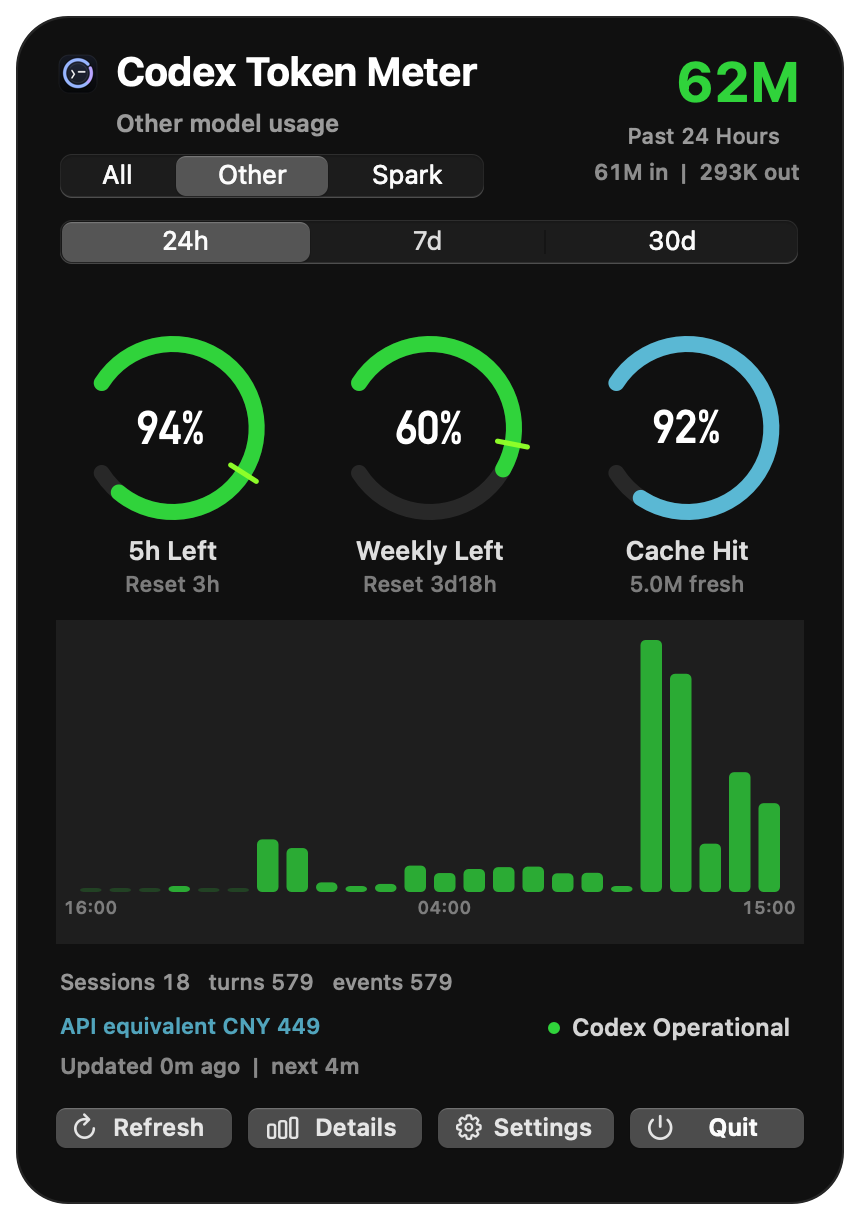
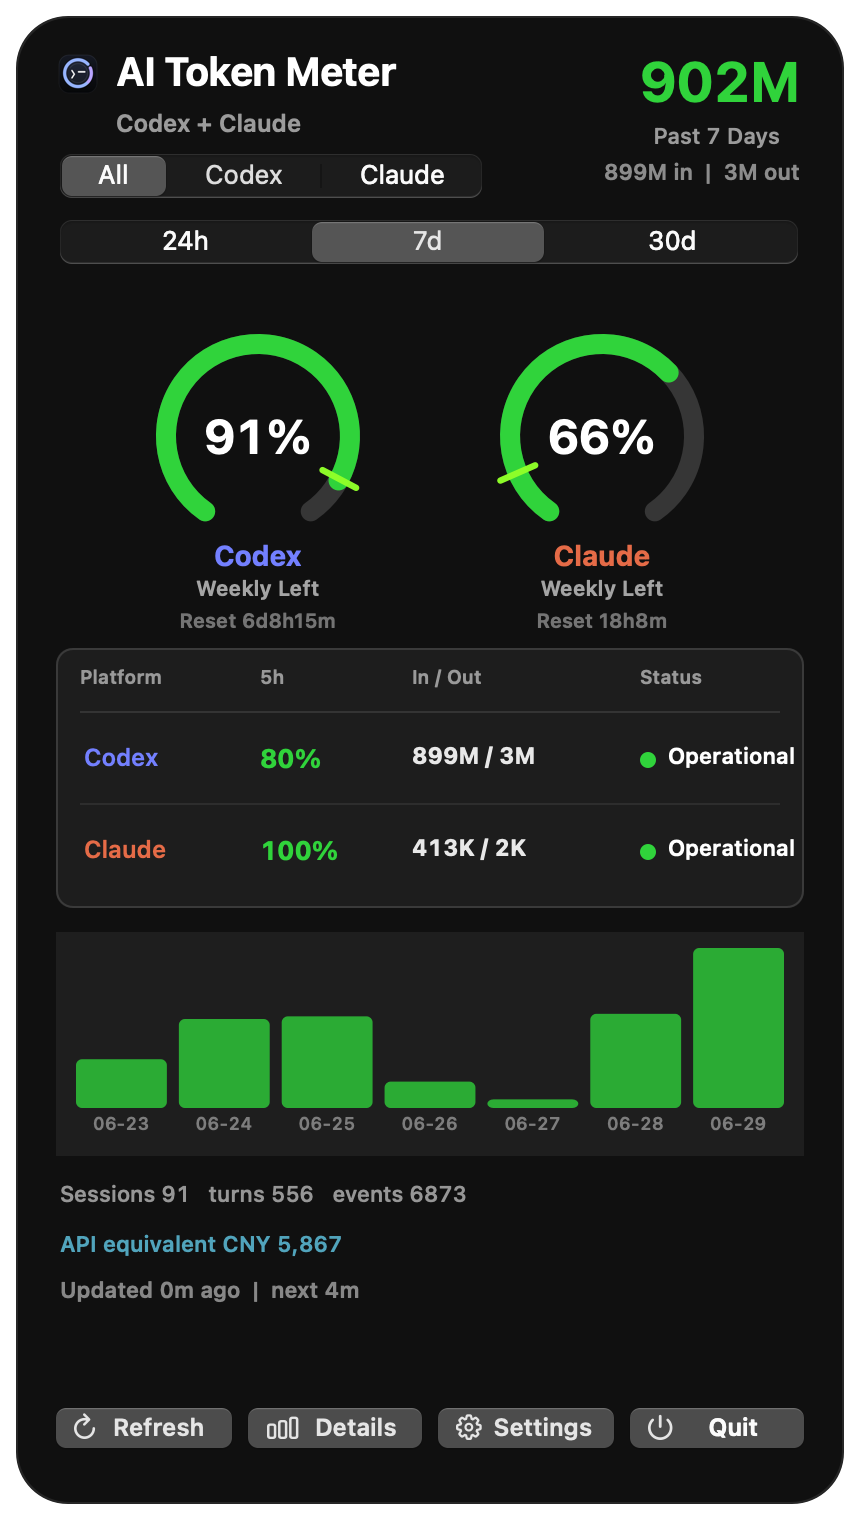
Refresh README screenshots for AI Token Meter

diff --git a/README.en.md b/README.en.md
@@ -21,37 +21,37 @@ When available, it also reads live quota data from the local Codex runtime, incl
 ### Menu Bar Dashboard
 
 <p align="center">
-  <img src="docs/images/en-menu-popover-current.png" alt="AI Token Meter menu bar dashboard" width="520">
+  <img src="docs/images/en-menu-popover-current.png" alt="AI Token Meter menu bar dashboard" width="420">
 </p>
 
 ### Repository Insights
 
 <p align="center">
-  <img src="docs/images/en-details-insights.png" alt="AI Token Meter repository insights page" width="1400">
+  <img src="docs/images/en-details-insights.png" alt="AI Token Meter repository insights page" width="760">
 </p>
 
 ### Details Overview
 
 <p align="center">
-  <img src="docs/images/en-details-overview.png" alt="AI Token Meter details overview" width="1400">
+  <img src="docs/images/en-details-overview.png" alt="AI Token Meter details overview" width="760">
 </p>
 
 ### Activity Calendar
 
 <p align="center">
-  <img src="docs/images/en-details-calendar.png" alt="AI Token Meter activity calendar page" width="1400">
+  <img src="docs/images/en-details-calendar.png" alt="AI Token Meter activity calendar page" width="760">
 </p>
 
 ### Cost And Budget Tracking
 
 <p align="center">
-  <img src="docs/images/en-details-costs.png" alt="AI Token Meter cost and budget page" width="1400">
+  <img src="docs/images/en-details-costs.png" alt="AI Token Meter cost and budget page" width="760">
 </p>
 
 ### Diagnostics
 
 <p align="center">
-  <img src="docs/images/en-details-diagnostics.png" alt="AI Token Meter diagnostics page" width="1400">
+  <img src="docs/images/en-details-diagnostics.png" alt="AI Token Meter diagnostics page" width="760">
 </p>
 
 <details>
@@ -60,37 +60,37 @@ When available, it also reads live quota data from the local Codex runtime, incl
 ### 状态栏面板
 
 <p align="center">
-  <img src="docs/images/zh-menu-popover-current.png" alt="AI Token Meter Chinese menu bar dashboard" width="520">
+  <img src="docs/images/zh-menu-popover-current.png" alt="AI Token Meter Chinese menu bar dashboard" width="420">
 </p>
 
 ### 仓库洞察
 
 <p align="center">
-  <img src="docs/images/zh-details-insights.png" alt="AI Token Meter Chinese repository insights page" width="1400">
+  <img src="docs/images/zh-details-insights.png" alt="AI Token Meter Chinese repository insights page" width="760">
 </p>
 
 ### 详情概览
 
 <p align="center">
-  <img src="docs/images/zh-details-overview.png" alt="AI Token Meter Chinese details overview" width="1400">
+  <img src="docs/images/zh-details-overview.png" alt="AI Token Meter Chinese details overview" width="760">
 </p>
 
 ### 活动日历
 
 <p align="center">
-  <img src="docs/images/zh-details-calendar.png" alt="AI Token Meter Chinese activity calendar page" width="1400">
+  <img src="docs/images/zh-details-calendar.png" alt="AI Token Meter Chinese activity calendar page" width="760">
 </p>
 
 ### 金额与预算
 
 <p align="center">
-  <img src="docs/images/zh-details-costs.png" alt="AI Token Meter Chinese cost and budget page" width="1400">
+  <img src="docs/images/zh-details-costs.png" alt="AI Token Meter Chinese cost and budget page" width="760">
 </p>
 
 ### 诊断
 
 <p align="center">
-  <img src="docs/images/zh-details-diagnostics.png" alt="AI Token Meter Chinese diagnostics page" width="1400">
+  <img src="docs/images/zh-details-diagnostics.png" alt="AI Token Meter Chinese diagnostics page" width="760">
 </p>
 
 </details>
@@ -100,12 +100,14 @@ When available, it also reads live quota data from the local Codex runtime, incl
 - Menu bar status item showing remaining quota, weekly quota, daily tokens, or weekly tokens.
 - Compact popover with `24h / 7d / 30d` windows.
 - `All / Codex / Claude` source switching, plus model-limit and non-model-limit views inside Codex usage.
+- The `All` dashboard shows Codex / Claude weekly quota rings, 5-hour pressure, input/output, status links, and time-window usage bars.
 - The Claude view can use Claude Code statusline `rate_limits` for official 5-hour and 7-day usage percentages; without that hook it still shows local-log usage.
 - Live 5-hour and weekly quota pacing, with either ring or bullet-style display.
 - Cache hit-rate ring.
 - Compact Codex service-status chip sourced from `status.openai.com`, with a settings toggle to show or hide it.
 - Token breakdown for input, output, cached input, fresh input, and total tokens.
 - Details window with overview, insights, calendar, cost, model, settings, diagnostics, and about pages.
+- The menu dashboard and details window cache aggregate snapshots, showing the last complete result first and refreshing in the background.
 - Insights page that groups local Codex and Claude Code conversations by repository or folder, highlights long-running threads, context-compaction pressure, active worktrees, and split-thread recommendations.
 - 365-day activity calendar with daily detail cards.
 - Model-level aggregation for long-term usage analysis.

diff --git a/README.md b/README.md
@@ -21,37 +21,37 @@ $CODEX_HOME/archived_sessions/rollout-*.jsonl
 ### 状态栏面板
 
 <p align="center">
-  <img src="docs/images/zh-menu-popover-current.png" alt="AI Token Meter 中文状态栏面板" width="520">
+  <img src="docs/images/zh-menu-popover-current.png" alt="AI Token Meter 中文状态栏面板" width="420">
 </p>
 
 ### 仓库洞察
 
 <p align="center">
-  <img src="docs/images/zh-details-insights.png" alt="AI Token Meter 中文仓库洞察页面" width="1400">
+  <img src="docs/images/zh-details-insights.png" alt="AI Token Meter 中文仓库洞察页面" width="760">
 </p>
 
 ### 详情概览
 
 <p align="center">
-  <img src="docs/images/zh-details-overview.png" alt="AI Token Meter 中文详情概览" width="1400">
+  <img src="docs/images/zh-details-overview.png" alt="AI Token Meter 中文详情概览" width="760">
 </p>
 
 ### 活动日历
 
 <p align="center">
-  <img src="docs/images/zh-details-calendar.png" alt="AI Token Meter 中文活动日历页面" width="1400">
+  <img src="docs/images/zh-details-calendar.png" alt="AI Token Meter 中文活动日历页面" width="760">
 </p>
 
 ### 金额与预算
 
 <p align="center">
-  <img src="docs/images/zh-details-costs.png" alt="AI Token Meter 中文金额页面" width="1400">
+  <img src="docs/images/zh-details-costs.png" alt="AI Token Meter 中文金额页面" width="760">
 </p>
 
 ### 诊断
 
 <p align="center">
-  <img src="docs/images/zh-details-diagnostics.png" alt="AI Token Meter 中文诊断页面" width="1400">
+  <img src="docs/images/zh-details-diagnostics.png" alt="AI Token Meter 中文诊断页面" width="760">
 </p>
 
 <details>
@@ -60,37 +60,37 @@ $CODEX_HOME/archived_sessions/rollout-*.jsonl
 ### Menu Bar Dashboard
 
 <p align="center">
-  <img src="docs/images/en-menu-popover-current.png" alt="AI Token Meter English menu bar dashboard" width="520">
+  <img src="docs/images/en-menu-popover-current.png" alt="AI Token Meter English menu bar dashboard" width="420">
 </p>
 
 ### Repository Insights
 
 <p align="center">
-  <img src="docs/images/en-details-insights.png" alt="AI Token Meter English repository insights page" width="1400">
+  <img src="docs/images/en-details-insights.png" alt="AI Token Meter English repository insights page" width="760">
 </p>
 
 ### Details Overview
 
 <p align="center">
-  <img src="docs/images/en-details-overview.png" alt="AI Token Meter English details overview" width="1400">
+  <img src="docs/images/en-details-overview.png" alt="AI Token Meter English details overview" width="760">
 </p>
 
 ### Activity Calendar
 
 <p align="center">
-  <img src="docs/images/en-details-calendar.png" alt="AI Token Meter English activity calendar page" width="1400">
+  <img src="docs/images/en-details-calendar.png" alt="AI Token Meter English activity calendar page" width="760">
 </p>
 
 ### Cost And Budget Tracking
 
 <p align="center">
-  <img src="docs/images/en-details-costs.png" alt="AI Token Meter English cost and budget page" width="1400">
+  <img src="docs/images/en-details-costs.png" alt="AI Token Meter English cost and budget page" width="760">
 </p>
 
 ### Diagnostics
 
 <p align="center">
-  <img src="docs/images/en-details-diagnostics.png" alt="AI Token Meter English diagnostics page" width="1400">
+  <img src="docs/images/en-details-diagnostics.png" alt="AI Token Meter English diagnostics page" width="760">
 </p>
 
 </details>
@@ -100,12 +100,14 @@ $CODEX_HOME/archived_sessions/rollout-*.jsonl
 - 状态栏显示 5 小时剩余额度、周额度、当日 token 或 7 日 token。
 - 弹窗支持 `24h / 7d / 30d` 时间窗口切换。
 - 支持 `All / Codex / Claude` 数据源切换，以及 Codex 内部的模型限额/非模型限额视图。
+- `All` 首页展示 Codex / Claude 双平台周额度圆环、5 小时压力、输入/输出、状态入口和按时间窗口聚合的柱状图。
 - Claude 视图可通过 Claude Code statusline 读取官方 5 小时/7 天使用百分比；未配置时仍显示本地日志统计。
 - 显示 5 小时和周额度节奏，可在圆环和子弹图样式之间切换。
 - 显示缓存命中率圆环。
 - 通过 `status.openai.com` 监控官方 Codex 服务状态，用一个极简的 Codex 状态 chip 展示，并可在设置里开关。
 - 展示 input、output、cached input、fresh input 和 total token。
 - 详情窗口包含概览、洞察、日历、金额、模型、设置、诊断和关于页面。
+- 状态栏首页和详情窗口都会缓存聚合快照，打开或切换时先显示上次结果，再在后台刷新。
 - 洞察页面会按仓库或文件夹聚合本地 Codex 与 Claude Code 对话，标出长线程、上下文压缩压力、活跃 worktree 和拆分新线程的建议。
 - 过去 365 天日历热力图，点击某一天可查看当天用量详情。
 - 模型页面按模型聚合长期 token 用量。

diff --git a/README.zh-CN.md b/README.zh-CN.md
@@ -21,37 +21,37 @@ $CODEX_HOME/archived_sessions/rollout-*.jsonl
 ### 状态栏面板
 
 <p align="center">
-  <img src="docs/images/zh-menu-popover-current.png" alt="AI Token Meter 中文状态栏面板" width="520">
+  <img src="docs/images/zh-menu-popover-current.png" alt="AI Token Meter 中文状态栏面板" width="420">
 </p>
 
 ### 仓库洞察
 
 <p align="center">
-  <img src="docs/images/zh-details-insights.png" alt="AI Token Meter 中文仓库洞察页面" width="1400">
+  <img src="docs/images/zh-details-insights.png" alt="AI Token Meter 中文仓库洞察页面" width="760">
 </p>
 
 ### 详情概览
 
 <p align="center">
-  <img src="docs/images/zh-details-overview.png" alt="AI Token Meter 中文详情概览" width="1400">
+  <img src="docs/images/zh-details-overview.png" alt="AI Token Meter 中文详情概览" width="760">
 </p>
 
 ### 活动日历
 
 <p align="center">
-  <img src="docs/images/zh-details-calendar.png" alt="AI Token Meter 中文活动日历页面" width="1400">
+  <img src="docs/images/zh-details-calendar.png" alt="AI Token Meter 中文活动日历页面" width="760">
 </p>
 
 ### 金额与预算
 
 <p align="center">
-  <img src="docs/images/zh-details-costs.png" alt="AI Token Meter 中文金额页面" width="1400">
+  <img src="docs/images/zh-details-costs.png" alt="AI Token Meter 中文金额页面" width="760">
 </p>
 
 ### 诊断
 
 <p align="center">
-  <img src="docs/images/zh-details-diagnostics.png" alt="AI Token Meter 中文诊断页面" width="1400">
+  <img src="docs/images/zh-details-diagnostics.png" alt="AI Token Meter 中文诊断页面" width="760">
 </p>
 
 <details>
@@ -60,37 +60,37 @@ $CODEX_HOME/archived_sessions/rollout-*.jsonl
 ### Menu Bar Dashboard
 
 <p align="center">
-  <img src="docs/images/en-menu-popover-current.png" alt="AI Token Meter English menu bar dashboard" width="520">
+  <img src="docs/images/en-menu-popover-current.png" alt="AI Token Meter English menu bar dashboard" width="420">
 </p>
 
 ### Repository Insights
 
 <p align="center">
-  <img src="docs/images/en-details-insights.png" alt="AI Token Meter English repository insights page" width="1400">
+  <img src="docs/images/en-details-insights.png" alt="AI Token Meter English repository insights page" width="760">
 </p>
 
 ### Details Overview
 
 <p align="center">
-  <img src="docs/images/en-details-overview.png" alt="AI Token Meter English details overview" width="1400">
+  <img src="docs/images/en-details-overview.png" alt="AI Token Meter English details overview" width="760">
 </p>
 
 ### Activity Calendar
 
 <p align="center">
-  <img src="docs/images/en-details-calendar.png" alt="AI Token Meter English activity calendar page" width="1400">
+  <img src="docs/images/en-details-calendar.png" alt="AI Token Meter English activity calendar page" width="760">
 </p>
 
 ### Cost And Budget Tracking
 
 <p align="center">
-  <img src="docs/images/en-details-costs.png" alt="AI Token Meter English cost and budget page" width="1400">
+  <img src="docs/images/en-details-costs.png" alt="AI Token Meter English cost and budget page" width="760">
 </p>
 
 ### Diagnostics
 
 <p align="center">
-  <img src="docs/images/en-details-diagnostics.png" alt="AI Token Meter English diagnostics page" width="1400">
+  <img src="docs/images/en-details-diagnostics.png" alt="AI Token Meter English diagnostics page" width="760">
 </p>
 
 </details>
@@ -100,12 +100,14 @@ $CODEX_HOME/archived_sessions/rollout-*.jsonl
 - 状态栏显示 5 小时剩余额度、周额度、当日 token 或 7 日 token。
 - 弹窗支持 `24h / 7d / 30d` 时间窗口切换。
 - 支持 `All / Codex / Claude` 数据源切换，以及 Codex 内部的模型限额/非模型限额视图。
+- `All` 首页展示 Codex / Claude 双平台周额度圆环、5 小时压力、输入/输出、状态入口和按时间窗口聚合的柱状图。
 - Claude 视图可通过 Claude Code statusline 读取官方 5 小时/7 天使用百分比；未配置时仍显示本地日志统计。
 - 显示 5 小时和周额度节奏，可在圆环和子弹图样式之间切换。
 - 显示缓存命中率圆环。
 - 通过 `status.openai.com` 监控官方 Codex 服务状态，用一个极简的 Codex 状态 chip 展示，并可在设置里开关。
 - 展示 input、output、cached input、fresh input 和 total token。
 - 详情窗口包含概览、洞察、日历、金额、模型、设置、诊断和关于页面。
+- 状态栏首页和详情窗口都会缓存聚合快照，打开或切换时先显示上次结果，再在后台刷新。
 - 洞察页面会按仓库或文件夹聚合本地 Codex 与 Claude Code 对话，标出长线程、上下文压缩压力、活跃 worktree 和拆分新线程的建议。
 - 过去 365 天日历热力图，点击某一天可查看当天用量详情。
 - 模型页面按模型聚合长期 token 用量。
